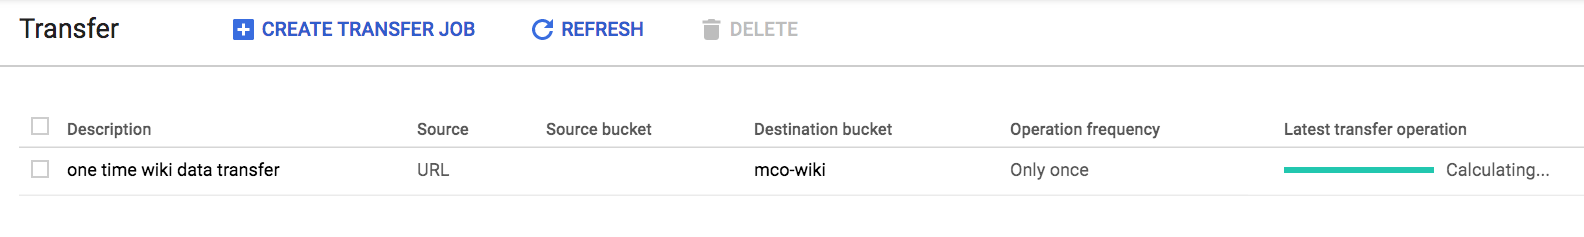
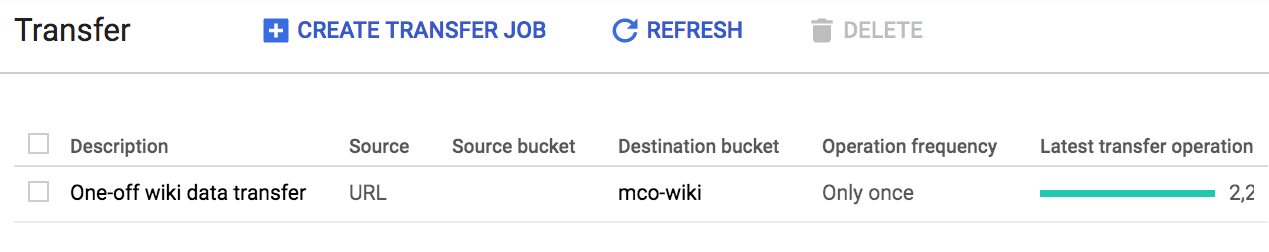
add transfer article

diff --git a/content/pds/transfer.md b/content/pds/transfer.md
@@ -1,0 +1,112 @@
++++
+image = "door.jpg"
+banner = ""
+menu = ""
+categories = []
+tags = ["data"]
+title = "Getting Your Foot in the Door - Part 1"
+subtitle = "Moving Data to the Google Cloud"
+date = "2019-09-13"
+image_credit = "https://unsplash.com/@craft_ear?utm_source=unsplash&utm_medium=referral&utm_content=creditCopyText"
++++
+
+One of the best reasons to move your data to the cloud is the wealth of powerful
+tools and services available for all phases of the Data Science lifecycle.
+But many of those tools expect to read your data from internal sources,
+like Google Cloud Storage, BigQuery, or a streaming service like Cloud PubSub.
+<strong>So how do you get your data into the Google Cloud to
+begin with?</strong> I'm glad you asked, because that's the question I'm going
+to answer in this article.
+
+To motivate my solution, here's a real dataset I'd like to analyze:
+the [Wikipedia access logs](http://dumps.wikimedia.your.org/).
+I find this dataset fascinating because the frequency of page views
+for Wikipedia articles serves as a kind of proxy view into
+the worldwide cultural zeitgeist.
+
+This is a good choice for another reason: it's Big - Wikipedia
+logs on the order of 250MB of access data every hour.
+Just the data for this year to date (as of September 16, which is day 259) would entail 259*24*250MB=1.5TB.
+But we're going bigger than that - we're going to load all the historical
+data from as many year as we can find.
+
+## The Naive Approach (and why it's not the best plan)
+
+What's the simplest and most obvious way to do this? Download the data to your laptop
+using curl or wget, and upload the file(s) from your local hard drive to Google Cloud
+Storage, using gsutil or the Cloud Console.
+
+What could possibly go wrong? Well, a lot...
+
+- Space: You may not have enough free space available to store the downloaded file(s).
+- Time: This is going to be slow because it's using spare CPU cycles on a busy laptop.
+- Efficiency: You're transferring every byte twice - once from the source to your laptop and
+  once from your laptop to the cloud.
+- Comfort: Your personal device is now dedicated to an onerous background task. Don't close the lid and hope you don't mind that whirring fan for the next eight hours!
+- Resilience: What happens when you're laptop goes to sleep or reboots or crashes in the middle of a multi-hour transfer?
+- Automation: This is fundamentally a manual task. We want it be 100% automated to minimize errors and ensure it always runs, reliably and reproducibly, with logs to audit when needed.
+
+In short, this is not what we'd call a well engineered process, so let's fix that now...
+
+## Introducing Cloud Storage Transfer Service
+
+If you haven't heard of this, it's a simple service for automatically moving
+data into the Google Cloud. You can read more about it in the [product documentation](https://cloud.google.com/storage-transfer/docs/overview). Here's where you'll find this service in the
+Cloud Console:
+
+<img width="30%" src="/img/transfer1.png">
+
+Let's create a new transfer job:
+
+<img width="50%" src="/img/transfer2.png">
+
+Next, we're prompted to enter three sets of specifications:
+
+### Select Source
+
+This can be a GCS Bucket, an S3 bucket, or the web. Since our problem is importing data served on the web, we'll go with the latter option.
+Note that when specifying the web as your source, there's an extra level of indirection - you need to supply a URL pointing to a file enumerating the URLs you want to fetch.
+
+Note the following rules regarding how the tab separated value file must be formatted:
+
+<img width="50%" src="/img/transfer7.png">
+
+In practice, I've found the file size and checksums are not strictly required (though the header line is). Accordingly, I created a test file called `xfer.tsv` with the following contents:
+
+```
+TsvHttpData-1.0
+https://dumps.wikimedia.org/other/pageviews/2019/2019-01/pageviews-20190101-000000.gz
+https://dumps.wikimedia.org/other/pageviews/2019/2019-01/pageviews-20190101-010000.gz
+https://dumps.wikimedia.org/other/pageviews/2019/2019-01/pageviews-20190101-020000.gz
+```
+
+Using gsutil, I uploaded a copy of this file to Cloud Storage object (`gs://mco-wiki/xfer.tsv`) and
+entered the full URL of this object (`https://storage.googleapis.com/mco-wiki/xfer.tsvi`) into the Select Source dialog.
+
+<img width="50%" src="/img/transfer3.png">
+
+### Select Destination
+
+Next we select a destination. I'm having the data stored in a bucket named after my project: `gs://mco-wiki`.
+
+<img width="50%" src="/img/transfer4.png">
+
+### Configure Transfer
+
+Finally, we specify whether this is a
+one-off request or a recurring request. For the former you can start the transfer running immediately.
+For the latter, you can schedule it to recur daily at a specific time of day.
+
+<img width="50%" src="/img/transfer5.png">
+
+Now we've finished giving our input so we can click the Create button to create our transfer request. If all goes well, we'll then see our new job, it's status and related attributes.
+
+<img width="50%" src="/img/transfer6.png">
+
+We can come back to this page to check on our job status. When it finished, we'll either see error message(s) or a successful completion indication, in which case the imported data will be waiting for us in the destination bucket.
+
+
+## Next Time
+
+In this article we saw how to important large files, once or repeatedly, into Google Cloud Storage. But if the file is a big one, we'll most likely be importing a compressed version.
+In the next article in this series, we'll talk about how best to decompress large files in the Cloud.
